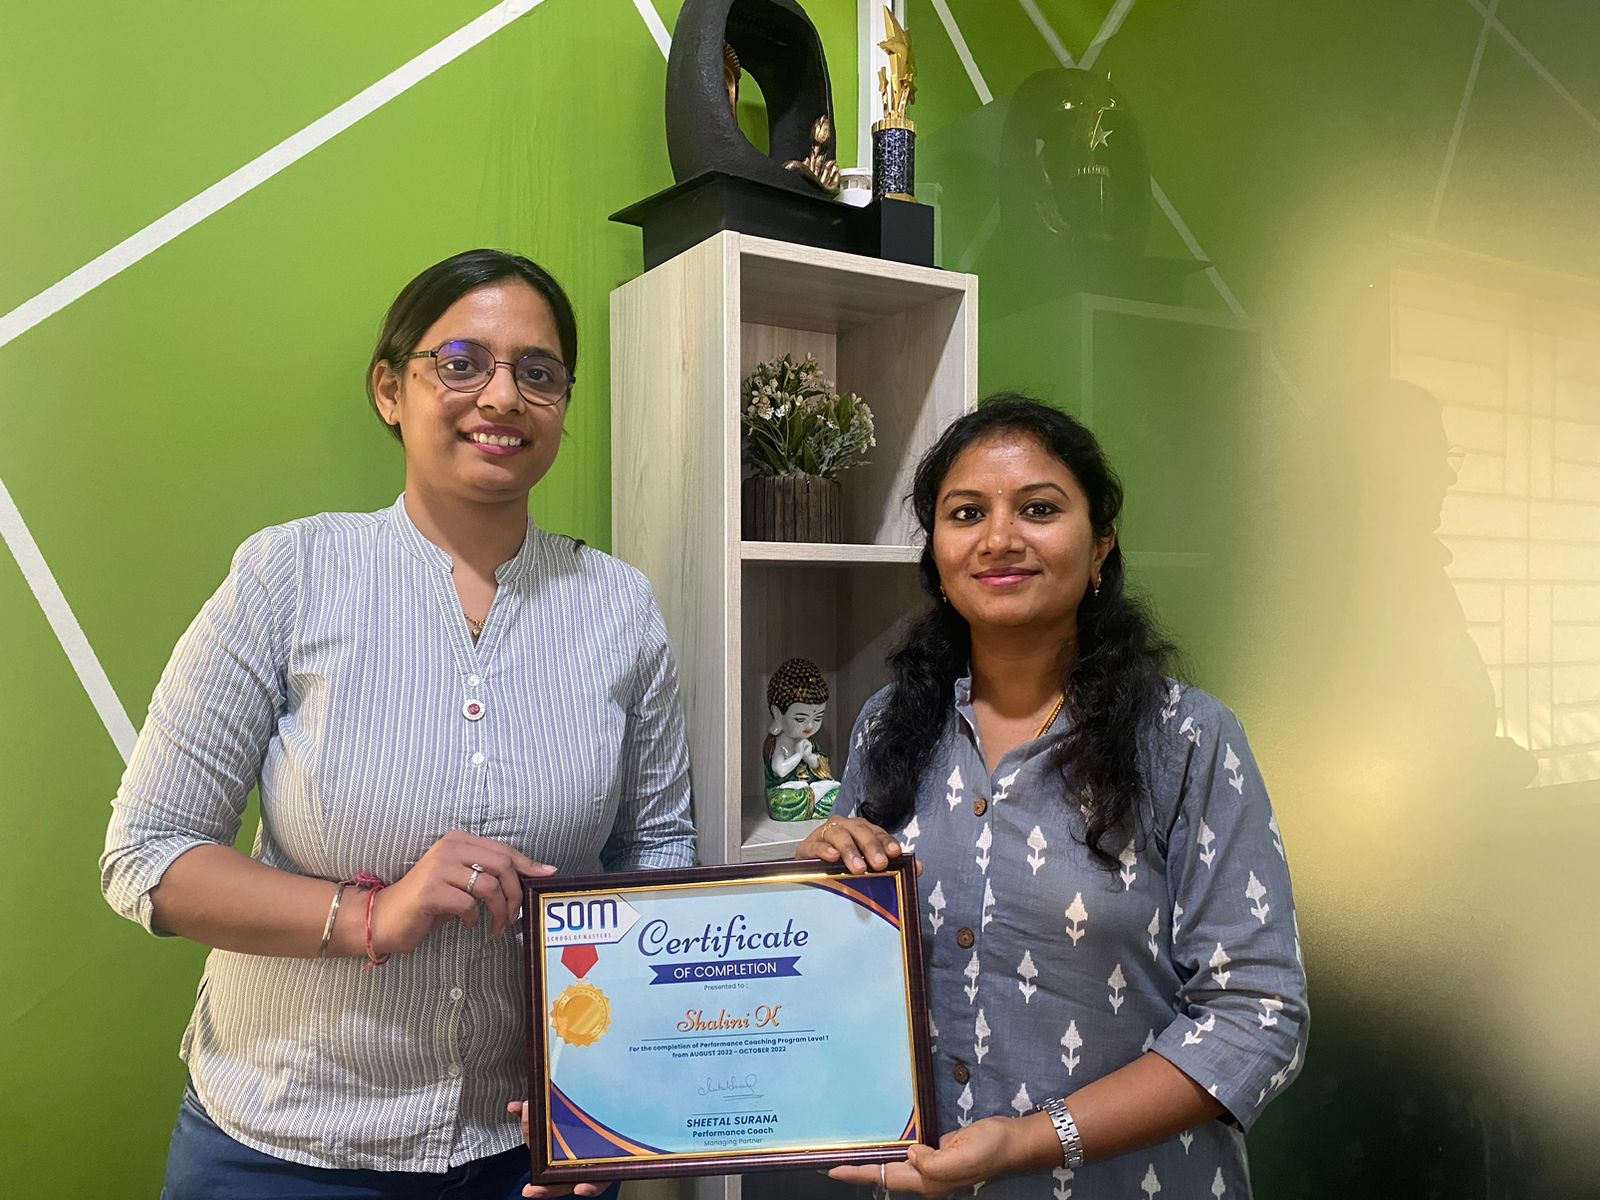
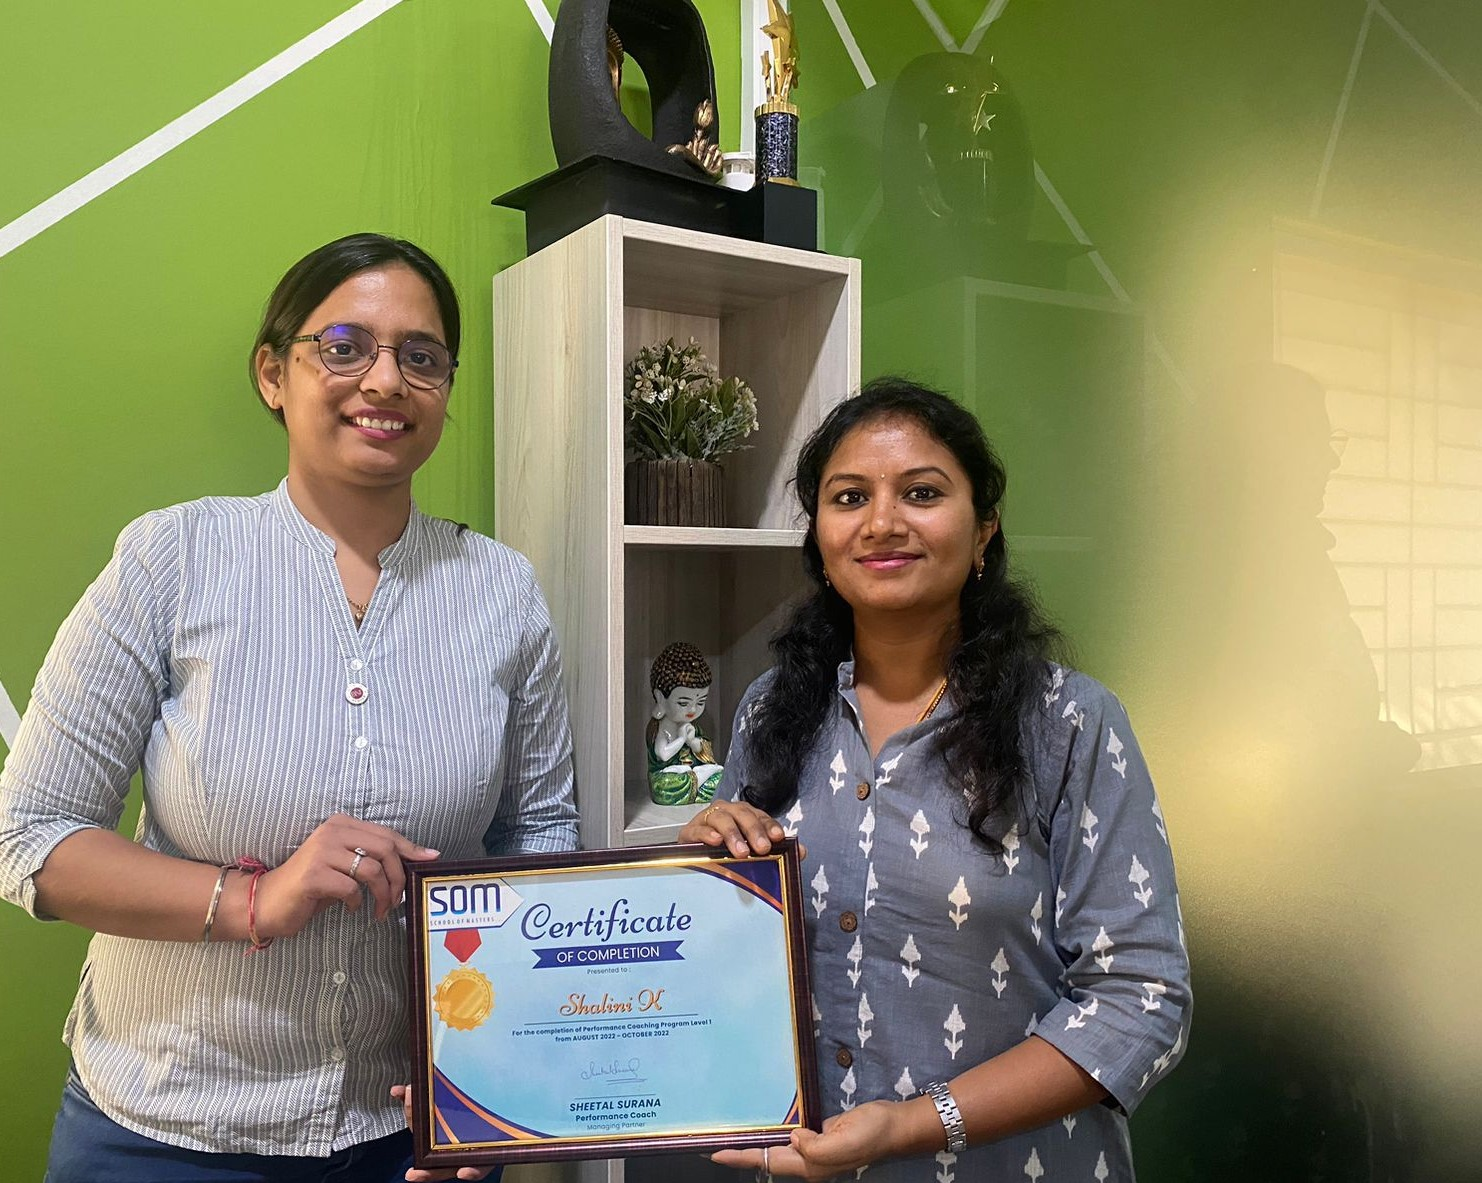
121

diff --git a/src/components/Serviceslist/PersonalTraining.jsx b/src/components/Serviceslist/PersonalTraining.jsx
@@ -1,6 +1,8 @@
 import React, { useEffect } from "react";
 import "../../styles/training.css"; // Import your custom CSS stylesheet
-import training from "../../images/121.jpg"
+import training from "../../images/121.jpg";
+import training2 from "../../images/121 coaching.jpg"
+import training3 from "../../images/121 coaching 2.jpg"
 
 
 const Training = () => {
@@ -44,7 +46,7 @@ const Training = () => {
       <div className="image">
         <div>
           <img
-            src={training}
+            src={training2}
             alt="img"
           />
         </div>
@@ -71,7 +73,7 @@ const Training = () => {
       <div className="image">
         <div>
           <img
-            src="https://cdn.elearningindustry.com/wp-content/uploads/2018/09/3-steps-to-better-healthcare-training-e1538384810968.jpg"
+            src={training3}
             alt="img"
           />
         </div>
